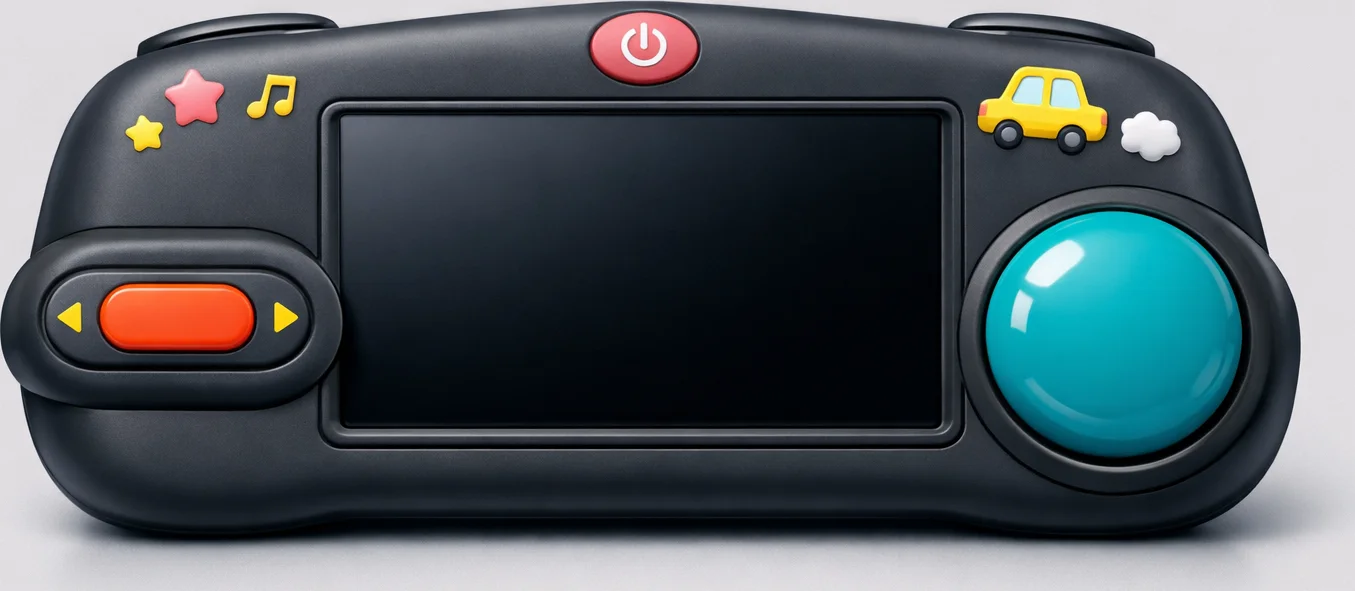
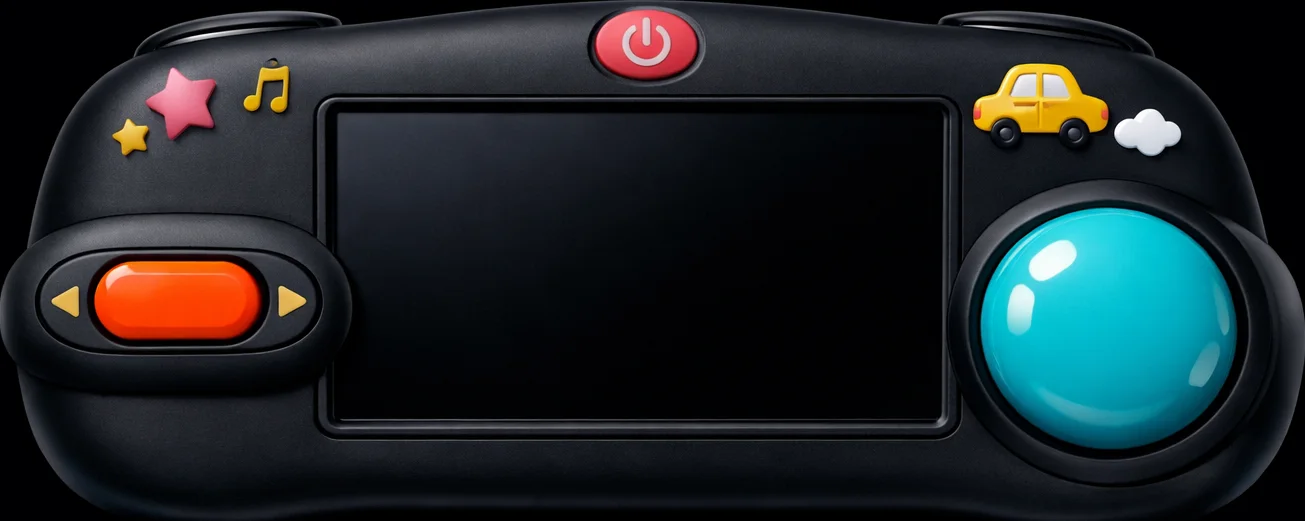
🏫 รอบ 295: เครื่องเกมภาพใหม่พื้นดำ + โรงเรียน 3D ตามคลิปจริง
- console_crop.webp เจนใหม่จาก BlackConsole.png (พื้นดำสนิท ไม่มีขอบขาว) + วัด % ปุ่ม/จอใหม่ (จอใหญ่ขึ้น 46.4×60.5%)
- buildSchool(): อาคารม่วง 2 ชั้น ระเบียง เสาขาว หน้าต่าง ประตู ภาพวาดการ์ตูนผนัง
  บันไดกระเบื้องลายไม้มันวาว+ผนังม่วง+ราวโครเมียม (ซิกเนเจอร์จากคลิปผู้ใช้) · ช้างน้ำเงิน+แปลงดอกไม้
  สนามเด็กเล่น (สไลเดอร์+ชิงช้า) · เสาธงไตรรงค์ · ลานคอนกรีตขี่เข้าไปเดินเล่นได้ · วางฝั่งไม่ทับถนน หันหน้าเข้าถนน

diff --git a/js/moto3d.js b/js/moto3d.js
@@ -60,12 +60,12 @@ const CSS=`
 /* เครื่องเกมพกพา = ภาพจริงของผู้ใช้ (img/moterbike/console_crop.webp) ยืดเต็มจอ
    ตำแหน่งปุ่ม/จอ วัดจากพิกเซลภาพจริง (grid 10%): จอใน 25–69.6% x 18–71% · power กลาง 47% · knob ส้มซ้าย · บอลฟ้าขวา */
 #moto-body{position:absolute;inset:0;background:url('img/moterbike/console_crop.webp') center/100% 100% no-repeat}
-#moto-power{position:absolute;left:43.3%;top:0.5%;width:8.2%;height:13.6%;border-radius:50%;
+#moto-power{position:absolute;left:45.5%;top:0.5%;width:8%;height:12.5%;border-radius:50%;
   border:none;cursor:pointer;background:transparent;color:#fff;
   display:flex;align-items:flex-end;justify-content:center}
 #moto-power .m-hint{font-size:1.5vmin;font-weight:800;opacity:.5;margin-bottom:-2.2vmin;text-shadow:0 1px 2px #000}
 #moto-power:active{background:rgba(255,255,255,.14)}
-#moto-screen{position:absolute;left:25.1%;top:18%;width:44.4%;height:53%;
+#moto-screen{position:absolute;left:25.2%;top:20%;width:46.4%;height:60.5%;
   background:#0e1118;border-radius:1.6vmin;overflow:hidden;
   box-shadow:inset 0 0 2vmin rgba(0,0,0,.85)}
 #moto-cv{position:absolute;inset:0;width:100%;height:100%;display:block}
@@ -73,7 +73,7 @@ const CSS=`
 #moto-bike{position:absolute;left:50%;bottom:-2%;height:56%;pointer-events:none;z-index:2;
   transform:translateX(-50%);transform-origin:50% 92%;
   filter:drop-shadow(0 1.2vmin 1vmin rgba(0,0,0,.55))}
-#moto-slider{position:absolute;left:2%;top:41%;width:22.5%;height:24%;border-radius:999px;cursor:pointer;
+#moto-slider{position:absolute;left:2.5%;top:45%;width:22%;height:24%;border-radius:999px;cursor:pointer;
   background:transparent}
 #moto-slider .m-arr{display:none}
 #moto-knob{position:absolute;left:50%;top:21%;height:56%;width:62%;transform:translateX(-50%);border-radius:999px;
@@ -82,7 +82,7 @@ const CSS=`
   display:flex;align-items:center;justify-content:center;color:#fff;font-weight:900;font-size:2.1vmin;
   text-shadow:0 1px 2px rgba(120,40,0,.6)}
 #moto-knob span{opacity:.5}
-#moto-throttle{position:absolute;left:72%;top:32.5%;width:19.5%;height:48%;border-radius:50%;border:none;cursor:pointer;
+#moto-throttle{position:absolute;left:74.5%;top:40%;width:19.5%;height:48%;border-radius:50%;border:none;cursor:pointer;
   background:transparent;color:#fff;display:flex;flex-direction:column;align-items:center;justify-content:center;gap:.4vmin}
 #moto-throttle:active{background:radial-gradient(circle at 50% 42%,rgba(255,255,255,.22),rgba(255,255,255,0) 62%)}
 #moto-throttle .m-ico{font-size:4.4vmin;opacity:.5;pointer-events:none;text-shadow:0 1px 3px rgba(0,60,70,.6)}
@@ -300,30 +300,189 @@ function letterTexture(ch){
   const t=new THREE.CanvasTexture(cv);
   texCache[key]=t; return t;
 }
+/* ---------- 🏫 โรงเรียน 3D ตามคลิปจริง (รอบ 295) ---------- */
+function woodTileMat(){          // กระเบื้องลายไม้เฉียงมันวาว (บันไดในคลิป)
+  const cv=document.createElement('canvas'); cv.width=cv.height=128;
+  const c=cv.getContext('2d');
+  c.fillStyle='#a9642a'; c.fillRect(0,0,128,128);
+  c.strokeStyle='rgba(255,214,160,.75)'; c.lineWidth=3;
+  for(let i=-128;i<256;i+=14){ c.beginPath(); c.moveTo(i,0); c.lineTo(i+64,64); c.moveTo(i,64); c.lineTo(i+64,128); c.stroke(); }
+  c.strokeStyle='#efe8dc'; c.lineWidth=4;
+  c.strokeRect(0,0,64,64); c.strokeRect(64,64,64,64); c.strokeRect(64,0,64,64); c.strokeRect(0,64,64,64);
+  const t=new THREE.CanvasTexture(cv); t.wrapS=t.wrapT=THREE.RepeatWrapping;
+  return new THREE.MeshPhongMaterial({map:t, shininess:90, specular:0x777777});
+}
+function muralTexture(){         // ภาพวาดการ์ตูนบนผนังทางเดิน (จากคลิป)
+  const cv=document.createElement('canvas'); cv.width=256; cv.height=96;
+  const c=cv.getContext('2d');
+  c.fillStyle='#fdf6e8'; c.fillRect(0,0,256,96);
+  const sky=c.createLinearGradient(0,0,0,60); sky.addColorStop(0,'#9fdcf7'); sky.addColorStop(1,'#e8f7ff');
+  c.fillStyle=sky; c.fillRect(6,6,244,58);
+  c.fillStyle='#8fd06c'; c.fillRect(6,56,244,34);
+  c.font='34px serif'; c.textBaseline='middle';
+  ['🌈','🐘','🌻','🦋','🏫','🌳'].forEach((e,i)=>c.fillText(e,14+i*40,60));
+  c.font='26px serif'; c.fillText('☀',216,24); c.fillText('☁',30,22);
+  return new THREE.CanvasTexture(cv);
+}
+function buildSchool(cx,cz,face){
+  const g=new THREE.Group();
+  const lam=c=>new THREE.MeshLambertMaterial({color:c});
+  const purple=lam(0x8e5fc0), purpleD=lam(0x6a4694), white=lam(0xf2f3f6),
+        winMat=lam(0xcfe6ff), doorMat=lam(0x7a4b26), chrome=new THREE.MeshPhongMaterial({color:0xd9dee4,shininess:110,specular:0xaaaaaa});
+  /* ลานคอนกรีตหน้าอาคาร */
+  const yard=new THREE.Mesh(new THREE.BoxGeometry(76,.12,58), lam(0xd0d5da));
+  yard.position.y=.06; g.add(yard);
+  /* อาคารม่วง 2 ชั้น + ระเบียงทางเดินหน้า (เหมือนภาพ Google/คลิป) */
+  const FH=3.4, BL=38, BD=8;
+  const bld=new THREE.Mesh(new THREE.BoxGeometry(BL,FH*2,BD), purple);
+  bld.position.set(0,FH,-19); g.add(bld);
+  const slab=new THREE.Mesh(new THREE.BoxGeometry(BL+3,.35,BD+3.4), purpleD);   // พื้นระเบียงชั้น 2
+  slab.position.set(0,FH,-19+.6); g.add(slab);
+  const roof=new THREE.Mesh(new THREE.BoxGeometry(BL+4,1,BD+4), lam(0xb0562e)); // หลังคาส้มอิฐ
+  roof.position.set(0,FH*2+.6,-19); g.add(roof);
+  const roofTop=new THREE.Mesh(new THREE.CylinderGeometry(0,3.4,2.2,4), lam(0x9c4826));
+  roofTop.scale.set(BL/6,1,1); roofTop.rotation.y=Math.PI/4; roofTop.position.set(0,FH*2+2.1,-19); g.add(roofTop);
+  /* เสาระเบียงขาว + ราวกันตกชั้น 2 */
+  for(let x=-18;x<=18;x+=4.5){
+    const col=new THREE.Mesh(new THREE.CylinderGeometry(.18,.18,FH*2,8), white);
+    col.position.set(x,FH,-14.2); g.add(col);
+  }
+  const rail2=new THREE.Mesh(new THREE.BoxGeometry(BL+2,.12,.12), chrome);
+  rail2.position.set(0,FH+1.05,-14.2); g.add(rail2);
+  const rail2b=new THREE.Mesh(new THREE.BoxGeometry(BL+2,.55,.06), lam(0xb69ad8));
+  rail2b.position.set(0,FH+.62,-14.2); g.add(rail2b);
+  /* หน้าต่างฟ้า 2 ชั้น + ประตู + ภาพวาดการ์ตูนผนังชั้นล่าง */
+  const winGeo=new THREE.BoxGeometry(2.6,1.7,.18);
+  for(let f=0;f<2;f++) for(let i=-3;i<=3;i++){
+    if(f===0&&(i===-1||i===1)) continue;                        // เว้นช่องประตู
+    const w=new THREE.Mesh(winGeo,winMat); w.position.set(i*4.8,1.9+f*FH,-14.95); g.add(w);
+  }
+  [-1,1].forEach(i=>{
+    const d=new THREE.Mesh(new THREE.BoxGeometry(1.7,2.6,.18), doorMat);
+    d.position.set(i*4.8,1.3,-14.95); g.add(d);
+  });
+  const mural=new THREE.Mesh(new THREE.PlaneGeometry(7,2.6),
+    new THREE.MeshBasicMaterial({map:muralTexture()}));
+  mural.position.set(-13.5,1.7,-14.93); g.add(mural);
+  /* 🪜 บันไดซิกเนเจอร์จากคลิป: กระเบื้องลายไม้มันวาว + ผนังข้างม่วง + ราวโครเมียม (ปลายอาคารขวา) */
+  const tile=woodTileMat();
+  const STEPS=9, SW=3.2, SD=.62, SH=FH/STEPS;
+  const stairX=BL/2+2.2;
+  for(let i=0;i<STEPS;i++){
+    const st=new THREE.Mesh(new THREE.BoxGeometry(SW,SH,SD), tile);
+    st.position.set(stairX, SH/2+i*SH, -14.5-i*SD);
+    g.add(st);
+  }
+  const sideW=new THREE.Mesh(new THREE.BoxGeometry(.25,FH+1.2,STEPS*SD+1.4), purple);
+  sideW.position.set(stairX+SW/2+.15, (FH+1.2)/2, -14.5-(STEPS*SD)/2); g.add(sideW);
+  const railLen=Math.hypot(STEPS*SD,FH)+1;
+  const rail=new THREE.Mesh(new THREE.CylinderGeometry(.06,.06,railLen,8), chrome);
+  rail.rotation.x=Math.atan2(FH,STEPS*SD)+Math.PI/2;
+  rail.position.set(stairX-SW/2-.1, FH/2+.95, -14.5-(STEPS*SD)/2); g.add(rail);
+  for(let i=0;i<3;i++){
+    const post=new THREE.Mesh(new THREE.CylinderGeometry(.045,.045,.95,6), chrome);
+    const t=i/2;
+    post.position.set(stairX-SW/2-.1, t*FH+.5, -14.5-t*STEPS*SD); g.add(post);
+  }
+  /* 🇹🇭 เสาธงชาติไทย */
+  const pole=new THREE.Mesh(new THREE.CylinderGeometry(.1,.14,13,8), white);
+  pole.position.set(-24,6.5,2); g.add(pole);
+  const STRIPES=[[0xB5002D,.45],[0xffffff,.45],[0x2D2A4A,.9],[0xffffff,.45],[0xB5002D,.45]];
+  let fy=12.3;
+  STRIPES.forEach(([col,h])=>{
+    const s=new THREE.Mesh(new THREE.PlaneGeometry(4,h), new THREE.MeshBasicMaterial({color:col,side:THREE.DoubleSide}));
+    s.position.set(-21.9,fy-h/2,2); g.add(s); fy-=h;
+  });
+  const poleBase=new THREE.Mesh(new THREE.CylinderGeometry(1.2,1.5,.8,10), white);
+  poleBase.position.set(-24,.4,2); g.add(poleBase);
+  /* 🐘 รูปปั้นช้างน้ำเงิน (จากคลิป) บนแท่นขาว กลางสวนหน้าลาน */
+  const ele=new THREE.Group();
+  const blue=lam(0x2e6fd8);
+  const ped=new THREE.Mesh(new THREE.BoxGeometry(3.4,.7,2.4), white); ped.position.y=.35; ele.add(ped);
+  const body=new THREE.Mesh(new THREE.SphereGeometry(1.05,12,10), blue);
+  body.scale.set(1.35,1,.95); body.position.y=1.85; ele.add(body);
+  const head=new THREE.Mesh(new THREE.SphereGeometry(.62,12,10), blue); head.position.set(1.55,2.25,0); ele.add(head);
+  [-1,1].forEach(s=>{
+    const ear=new THREE.Mesh(new THREE.CylinderGeometry(.42,.42,.1,10), blue);
+    ear.rotation.z=Math.PI/2; ear.position.set(1.35,2.35,s*.55); ele.add(ear);
+    const eye=new THREE.Mesh(new THREE.SphereGeometry(.07,6,6), lam(0x111111));
+    eye.position.set(2.02,2.42,s*.26); ele.add(eye);
+  });
+  const tr1=new THREE.Mesh(new THREE.CylinderGeometry(.16,.13,.9,8), blue);
+  tr1.rotation.z=-.7; tr1.position.set(2.2,1.85,0); ele.add(tr1);
+  const tr2=new THREE.Mesh(new THREE.CylinderGeometry(.13,.11,.6,8), blue);
+  tr2.rotation.z=-.15; tr2.position.set(2.5,1.4,0); ele.add(tr2);
+  for(const [lx,lz] of [[-.7,-.45],[-.7,.45],[.5,-.45],[.5,.45]]){
+    const leg=new THREE.Mesh(new THREE.CylinderGeometry(.22,.25,.95,8), blue);
+    leg.position.set(lx,1.15,lz); ele.add(leg);
+  }
+  ele.position.set(-12,0,14); ele.rotation.y=.5; g.add(ele);
+  /* 🌼 แปลงดอกไม้รอบช้าง + ริมลาน */
+  const bed=new THREE.Mesh(new THREE.BoxGeometry(10,.3,6), lam(0x4e9b45));
+  bed.position.set(-12,.15,14); g.add(bed);
+  const FLW=[0xff5f8f,0xffd54f,0xff8a3d,0xb388ff,0xff4d6d,0xffffff];
+  const flower=new THREE.InstancedMesh(new THREE.SphereGeometry(.22,6,6), lam(0xffffff), 46);
+  const fm=new THREE.Matrix4(), fc=new THREE.Color();
+  for(let i=0;i<46;i++){
+    const onBed=i<22;
+    const fx=onBed?(-12+(Math.random()*9-4.5)):(Math.random()*70-35);
+    const fz=onBed?(14+(Math.random()*5-2.5)):(26.5+Math.random()*1.6);
+    fm.makeScale(1,1,1); fm.setPosition(fx,.42,fz); flower.setMatrixAt(i,fm);
+    fc.setHex(FLW[i%FLW.length]); flower.setColorAt(i,fc);
+  }
+  g.add(flower);
+  /* 🛝 สนามเด็กเล่น: สไลเดอร์แดง + ชิงช้าเหลือง (จากคลิป) */
+  const slide=new THREE.Group();
+  const ramp=new THREE.Mesh(new THREE.BoxGeometry(1.1,.14,4.6), lam(0xe84d5b));
+  ramp.rotation.x=-.55; ramp.position.set(0,1.25,1.05); slide.add(ramp);
+  const deck=new THREE.Mesh(new THREE.BoxGeometry(1.2,.14,1.2), lam(0xf6c026));
+  deck.position.set(0,2.35,-1.35); slide.add(deck);
+  for(const [px2,pz2] of [[-.5,-1.9],[.5,-1.9],[-.5,-.8],[.5,-.8]]){
+    const lg=new THREE.Mesh(new THREE.CylinderGeometry(.07,.07,2.35,6), lam(0x3b8fd4));
+    lg.position.set(px2,1.18,pz2); slide.add(lg);
+  }
+  for(let i=0;i<4;i++){
+    const rung=new THREE.Mesh(new THREE.CylinderGeometry(.05,.05,1,6), lam(0xf2f3f6));
+    rung.rotation.z=Math.PI/2; rung.position.set(0,.5+i*.55,-2.42); slide.add(rung);
+  }
+  slide.position.set(12,0,16); slide.rotation.y=-.7; g.add(slide);
+  const swing=new THREE.Group();
+  [-1.6,1.6].forEach(sx=>{
+    [-1,1].forEach(sz=>{
+      const leg=new THREE.Mesh(new THREE.CylinderGeometry(.08,.08,2.9,6), lam(0xf6c026));
+      leg.rotation.x=sz*.32; leg.position.set(sx,1.35,sz*.5); swing.add(leg);
+    });
+  });
+  const beam=new THREE.Mesh(new THREE.CylinderGeometry(.07,.07,3.6,6), lam(0xf6c026));
+  beam.rotation.z=Math.PI/2; beam.position.y=2.7; swing.add(beam);
+  [-0.75,0.75].forEach(sx=>{
+    [-.28,.28].forEach(dx=>{
+      const rope=new THREE.Mesh(new THREE.CylinderGeometry(.025,.025,1.9,5), lam(0xcccccc));
+      rope.position.set(sx+dx,1.72,0); swing.add(rope);
+    });
+    const seat=new THREE.Mesh(new THREE.BoxGeometry(.75,.08,.3), lam(0xe84d5b));
+    seat.position.set(sx,.75,0); swing.add(seat);
+  });
+  swing.position.set(21,0,13); swing.rotation.y=.4; g.add(swing);
+  /* ป้ายชื่อโรงเรียนลอย */
+  const sign=makeTextSprite('โรงเรียนบ้านโพธิ์สวัสดิ์','#7c4fb5','#ffffff','🏫');
+  sign.scale.set(46,11.5,1); sign.position.set(0,15,-19); g.add(sign);
+  g.position.set(cx,0,cz); g.rotation.y=face;
+  scene.add(g);
+}
 function buildScenery(){
   const D=window.MOTO_MAP;
   /* พื้นหญ้าสดใส */
   const g=new THREE.Mesh(new THREE.PlaneGeometry(64000,64000),
     new THREE.MeshLambertMaterial({color:0x8fd06c}));
   g.rotation.x=-Math.PI/2; g.position.y=-0.05; scene.add(g);
-  /* 🏫 โรงเรียนบ้านโพธิ์สวัสดิ์ (0,0) — อาคารม่วงเหมือนจริง + ป้าย + เสาธง */
-  const sch=new THREE.Group();
-  const bld=new THREE.Mesh(new THREE.BoxGeometry(26,8,10), new THREE.MeshLambertMaterial({color:0x9b6fc9}));
-  bld.position.y=4; sch.add(bld);
-  const roof=new THREE.Mesh(new THREE.BoxGeometry(28,1.2,12), new THREE.MeshLambertMaterial({color:0x6a4b8f}));
-  roof.position.y=8.6; sch.add(roof);
-  for(let i=-2;i<=2;i++){
-    const win=new THREE.Mesh(new THREE.BoxGeometry(3,2.2,.3), new THREE.MeshLambertMaterial({color:0xdcecff}));
-    win.position.set(i*5,4.6,5.02); sch.add(win);
-  }
-  const pole=new THREE.Mesh(new THREE.CylinderGeometry(.12,.12,12,8), new THREE.MeshLambertMaterial({color:0xe8ecf2}));
-  pole.position.set(-16,6,6); sch.add(pole);
-  const flag=new THREE.Mesh(new THREE.PlaneGeometry(3,1.8), new THREE.MeshBasicMaterial({color:0xe53935,side:THREE.DoubleSide}));
-  flag.position.set(-14.4,11,6); sch.add(flag);
-  const sign=makeTextSprite('โรงเรียนบ้านโพธิ์สวัสดิ์','#7c4fb5','#ffffff','🏫');
-  sign.scale.set(46,11.5,1); sign.position.set(0,15,0); sch.add(sign);
-  sch.position.set(startX-28,0,startZ-20);   // ถอยจากริมถนนจุดสตาร์ท
-  scene.add(sch);
+  /* 🏫 โรงเรียนบ้านโพธิ์สวัสดิ์ — สร้างตามคลิปจริงของผู้ใช้ (รอบ 295):
+     บันไดกระเบื้องลายไม้มันวาว+ผนังม่วง+ราวโครเมียม · ช้างน้ำเงินในสวน · สนามเด็กเล่น · ธงไตรรงค์
+     วางข้างถนนจุดสตาร์ท ฝั่งที่ไม่ทับถนน หันหน้าเข้าถนน — ขี่เข้าไปเดินเล่นในลานได้ (นอกถนน=ช้าอัตโนมัติ) */
+  const nrmX=Math.cos(startYaw), nrmZ=-Math.sin(startYaw);      // ตั้งฉากกับทิศถนน
+  let scx=startX+nrmX*52, scz=startZ+nrmZ*52;
+  if(roadInfo(scx,scz).d<10){ scx=startX-nrmX*52; scz=startZ-nrmZ*52; }
+  buildSchool(scx, scz, Math.atan2(startX-scx, startZ-scz));
   /* 🏘 ป้ายชื่อหมู่บ้าน (จาก OSM place) — ป้ายชมพูลอยเหนือหมู่บ้าน + บ้านหลังเล็กพาสเทล */
   const PASTEL=[0xffc9de,0xffe0a3,0xbfe6ff,0xd6f5c1,0xe6d0ff,0xfff3b0];
   const houseN=Math.min(D.pl.length*3,650);
